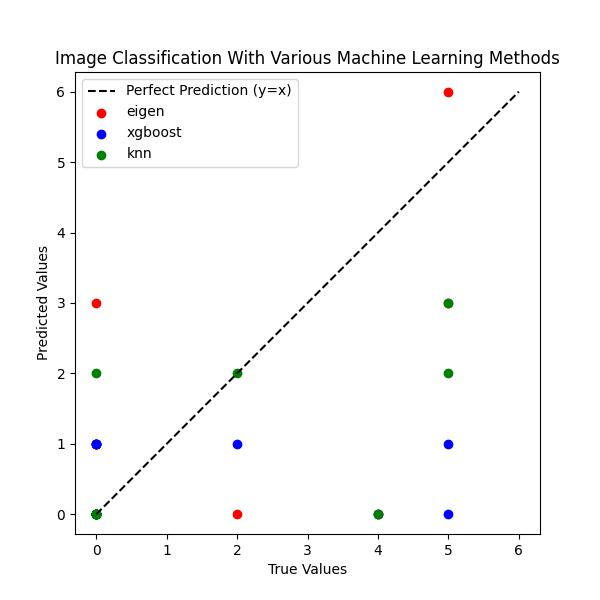
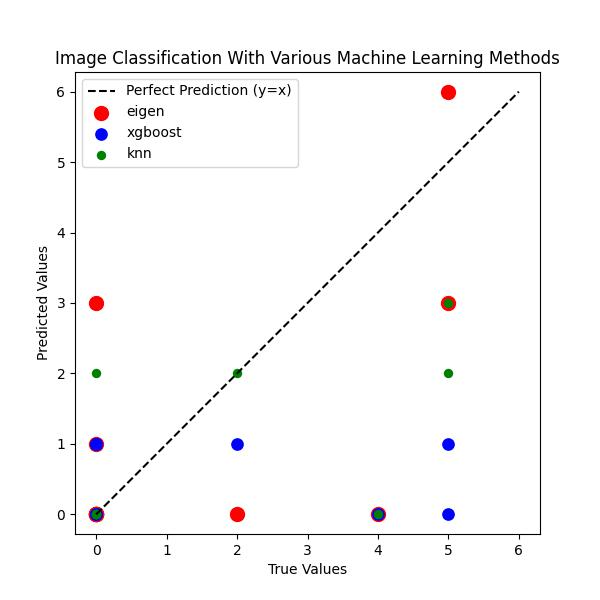
adjust to use different sized points

diff --git a/results/graph_accuracy.py b/results/graph_accuracy.py
@@ -20,6 +20,7 @@ def main():
 
     methods = ['eigen', 'xgboost', 'knn']
     colors = ['r', 'b', 'g']
+    size = [100, 66, 33]
 
     total_img = count_img('data/gray')
 
@@ -40,7 +41,7 @@ def main():
     # loop through methods and plot
     length = len(methods)
     for i in range(length):
-        plot(methods[i], colors[i])
+        plot(methods[i], colors[i], size[i])
     
     plt.legend()
     plt.show()
@@ -49,7 +50,7 @@ def main():
     fig.savefig('results/prediction_results.jpg')
 
 
-def plot(method, color):
+def plot(method, color, size):
 
     """
     plots predicted vs. true image index position in directory 
@@ -64,7 +65,7 @@ def plot(method, color):
     indicies = np.genfromtxt('results/'+method+'.csv', delimiter=',', skip_header=1).astype(int)
     true_val = indicies[:, 0]
     pred_val = indicies[:, 1]
-    plt.scatter(true_val, pred_val, color=color, label=method)
+    plt.scatter(true_val, pred_val, color=color, label=method, s=size)
 
 
 def count_img(dir_path):
